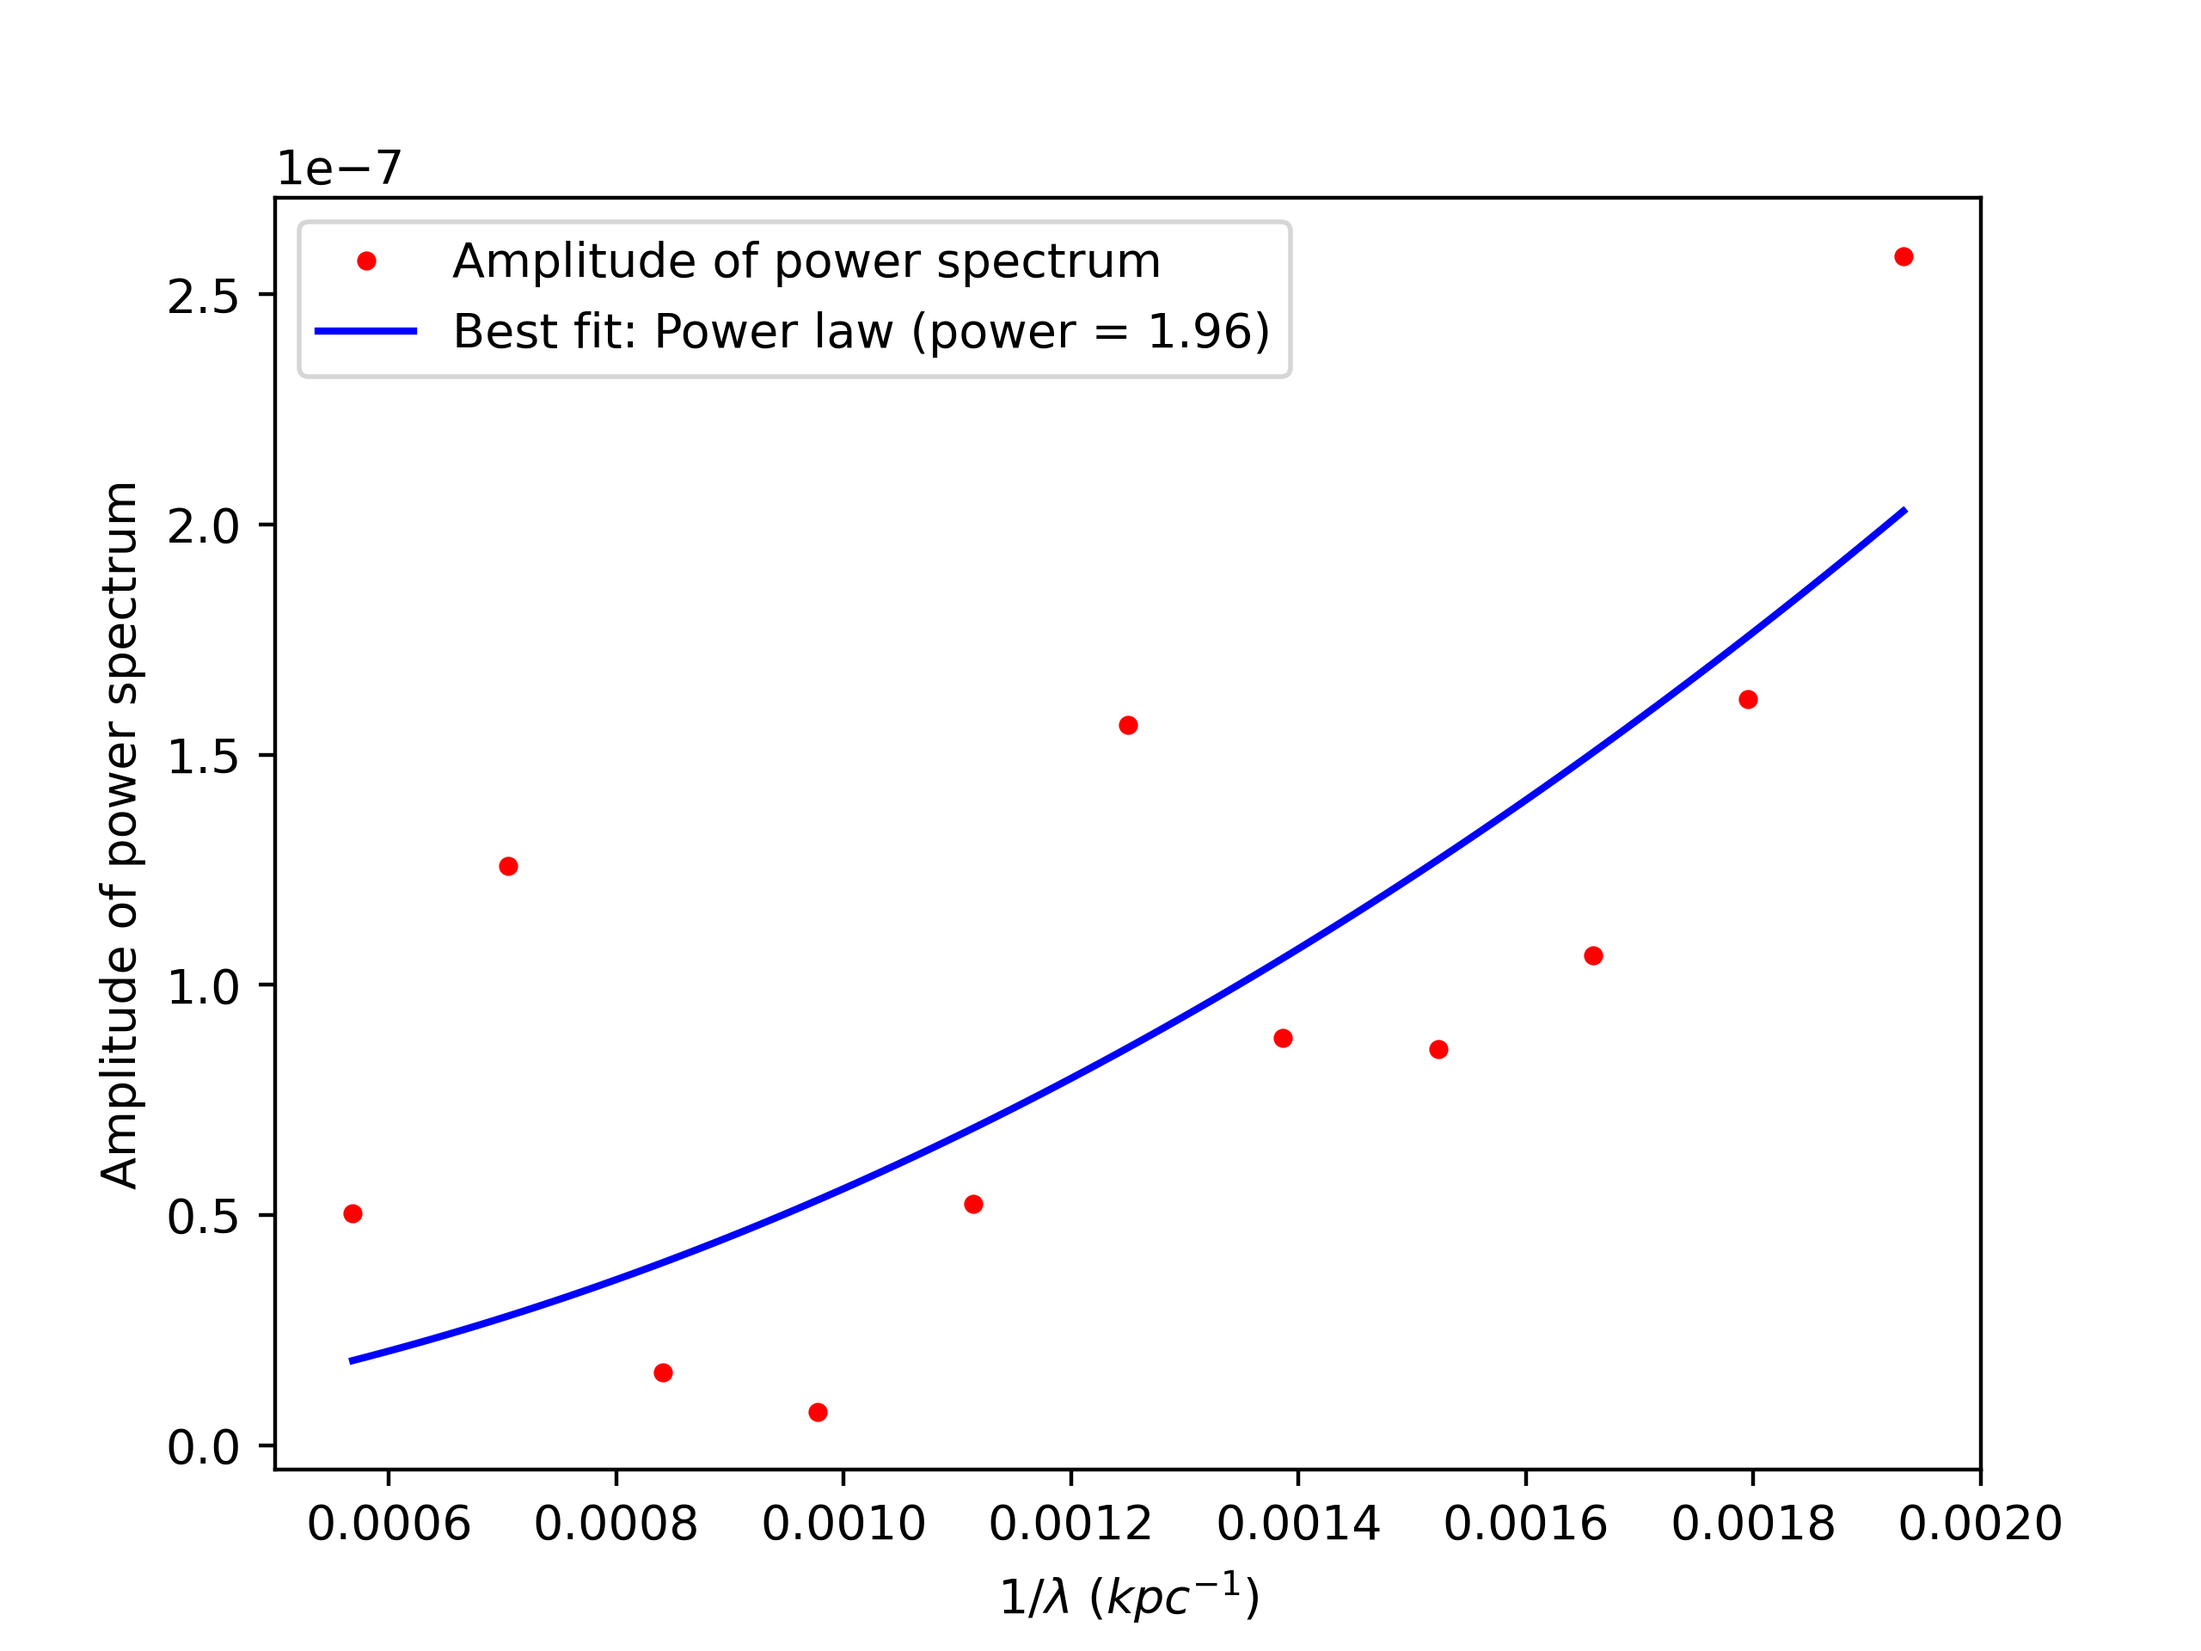
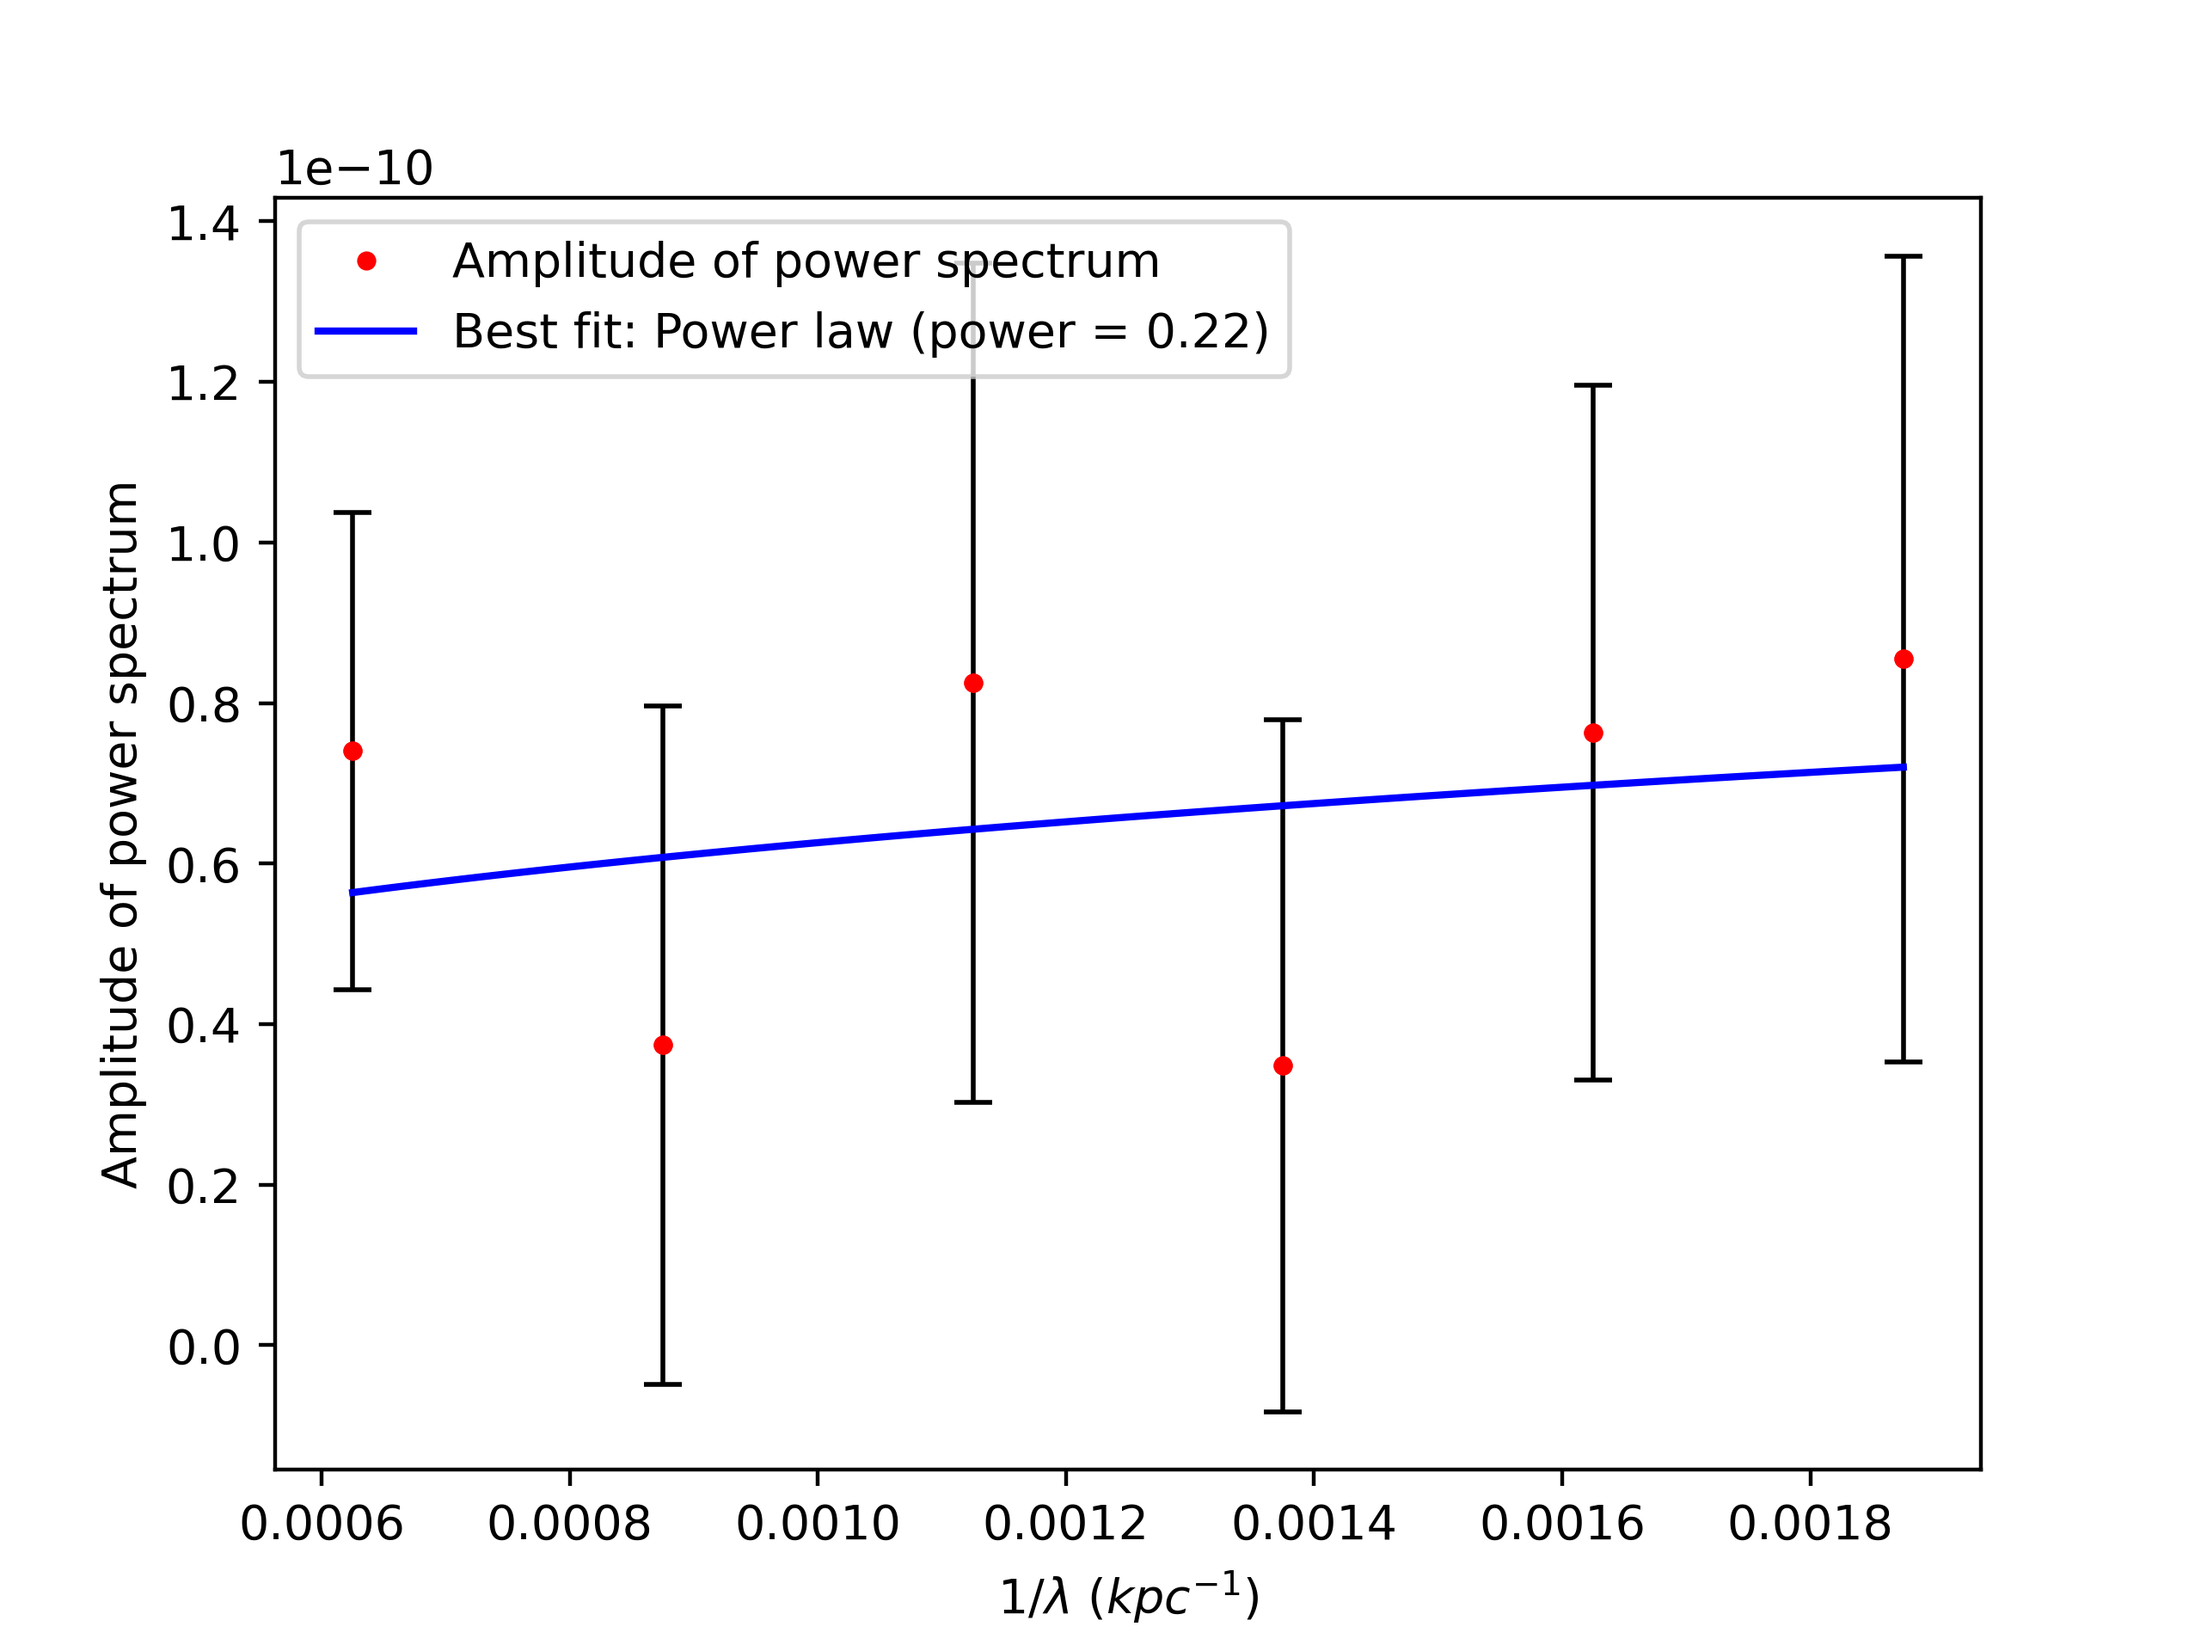
recovered power spectrum images added along with minor code modification

diff --git a/codes/pymast.py b/codes/pymast.py
@@ -2,6 +2,7 @@ import numpy as np
 import pymaster as nmt
 import matplotlib.pyplot as plt
 from scipy.optimize import curve_fit
+import os
 
 pixsize = 1.7177432059
 conv =  27.052 #kpc
@@ -12,6 +13,7 @@ Lx = 4. * np.pi/180
 Ly = 4. * np.pi/180
 Nx, Ny = len(y_fluc),  len(y_fluc)
 
+"------------------------------- CREATING MASKS -------------------------------"
 
 mask = np.zeros((Nx,Ny))
 cen_x, cen_y = Nx/2., Ny/2.
@@ -24,6 +26,9 @@ theta_ap = 15
 mask[idx]=1-np.exp(-9*(dist[idx]-cr)**2/(2*theta_ap**2))
 
 
+
+"---------------------------- PLOTTING APODIZED MASK --------------------------"
+
 plt.figure()
 x_ticks = ['-2', '-1','0','1','2']
 y_ticks = ['-2', '-1','0','1','2']
@@ -35,7 +40,9 @@ plt.colorbar()
 plt.savefig("Apodized mask.png",dpi = 400)
 plt.show()
 
-bin_number = 20
+"------------------------------ CREATING BINS ---------------------------------"
+
+bin_number = 6
 
 l_min = 180*60*conv/2000 
 l_max = 180*60*conv/500 
@@ -49,38 +56,58 @@ for i in range (bin_number):
     l0_bins.append(l_min+bin_size*i)
     lf_bins.append(l_min+bin_size*(i+1))
 
-
+print("\n*************************  Bins  *************************************\n")
 print(l0_bins)
 print(lf_bins)
 
 b = nmt.NmtBinFlat(l0_bins, lf_bins)
 ells_uncoupled = b.get_effective_ells()
+print("\n************************  effective l's  *****************************\n")
 print(ells_uncoupled)
 lambdas_inv = 1/(conv*60*180/ells_uncoupled)
 k = 2*np.pi*lambdas_inv
 
+"----------------------------- DEFINING BEAM ------------------------------------"
 
-fwhm = 180*60/10
-sigma = fwhm/2.355
 
-def FT_gaussian(x):
-	return np.exp(-(x**2)/2/sigma**2)/(np.sqrt(2*np.pi)*sigma)
+def beam(x):
+    fwhm = 180*60/10  # in terms of l
+    Planck_sig = fwhm/2.355
+    return np.exp(-((x)**2)/(5.*Planck_sig**2))
 
-FT_ells = FT_gaussian(ells_uncoupled)
 
-f0 = nmt.NmtFieldFlat(Lx, Ly, mask, [y_fluc] ,beam=[ells_uncoupled, FT_ells])
+"----------------------------- PLOTTING FIELD WITH MASK -------------------------"
 
+f0 = nmt.NmtFieldFlat(Lx, Ly, mask, [y_fluc] ,beam=[ells_uncoupled, beam(ells_uncoupled)])
+
+plt.figure()
+plt.imshow(f0.get_maps()[0] * mask, interpolation='nearest', origin='lower')
+plt.colorbar()
+plt.savefig('map with mask.png', dpi = 400)
+plt.show()
 
 w00 = nmt.NmtWorkspaceFlat()
 w00.compute_coupling_matrix(f0, f0, b)
 w00.write_to("w00_flat.fits")
 w00.read_from("w00_flat.fits")
 
-
 cl00_coupled = nmt.compute_coupled_cell_flat(f0, f0, b)
 cl00_uncoupled = w00.decouple_cell(cl00_coupled)[0]
+
+print("\n*************************  Power spectrum  *************************************\n")
 print(cl00_uncoupled)
 amp = abs((k**2)*cl00_uncoupled/(2*np.pi))**(1/2)
+
+cw = nmt.NmtCovarianceWorkspaceFlat()
+cw.compute_coupling_coefficients(f0, f0, b)
+covar = nmt.gaussian_covariance_flat(cw, 0, 0, 0, 0, ells_uncoupled,
+                                     [cl00_coupled[0]], [cl00_coupled[0]],
+                                     [cl00_coupled[0]], [cl00_coupled[0]], w00)
+
+print("\n*************************  Covariance matrix  *************************************\n")
+print(covar)
+std_power = np.sqrt(np.diag(covar))
+std_amp = abs((k**2)*std_power/(2*np.pi))**(1/2)
 
 def power_law(x,a,p):
     return a*np.power(x,p)
@@ -92,7 +119,10 @@ curve = power_law(lambdas_inv_curve, a_fit,p_fit)
 
 plt.figure()
 plt.plot(lambdas_inv, amp, 'r.', label='Amplitude of power spectrum')
-plt.plot(lambdas_inv_curve, curve, 'b', label='Best fit: Power law (power = %1.2f)'%p_fit)
+plt.errorbar(lambdas_inv,amp, yerr=std_amp, fmt='r.',ecolor='black',elinewidth=1,
+             capsize = 4)
+plt.plot(lambdas_inv_curve, curve, 'b', 
+         label='Best fit: Power law (power = %1.2f)'%p_fit)
 plt.xlabel("$1/\lambda$ ($kpc^{-1}$)")
 plt.ylabel("Amplitude of power spectrum")
 plt.legend()
